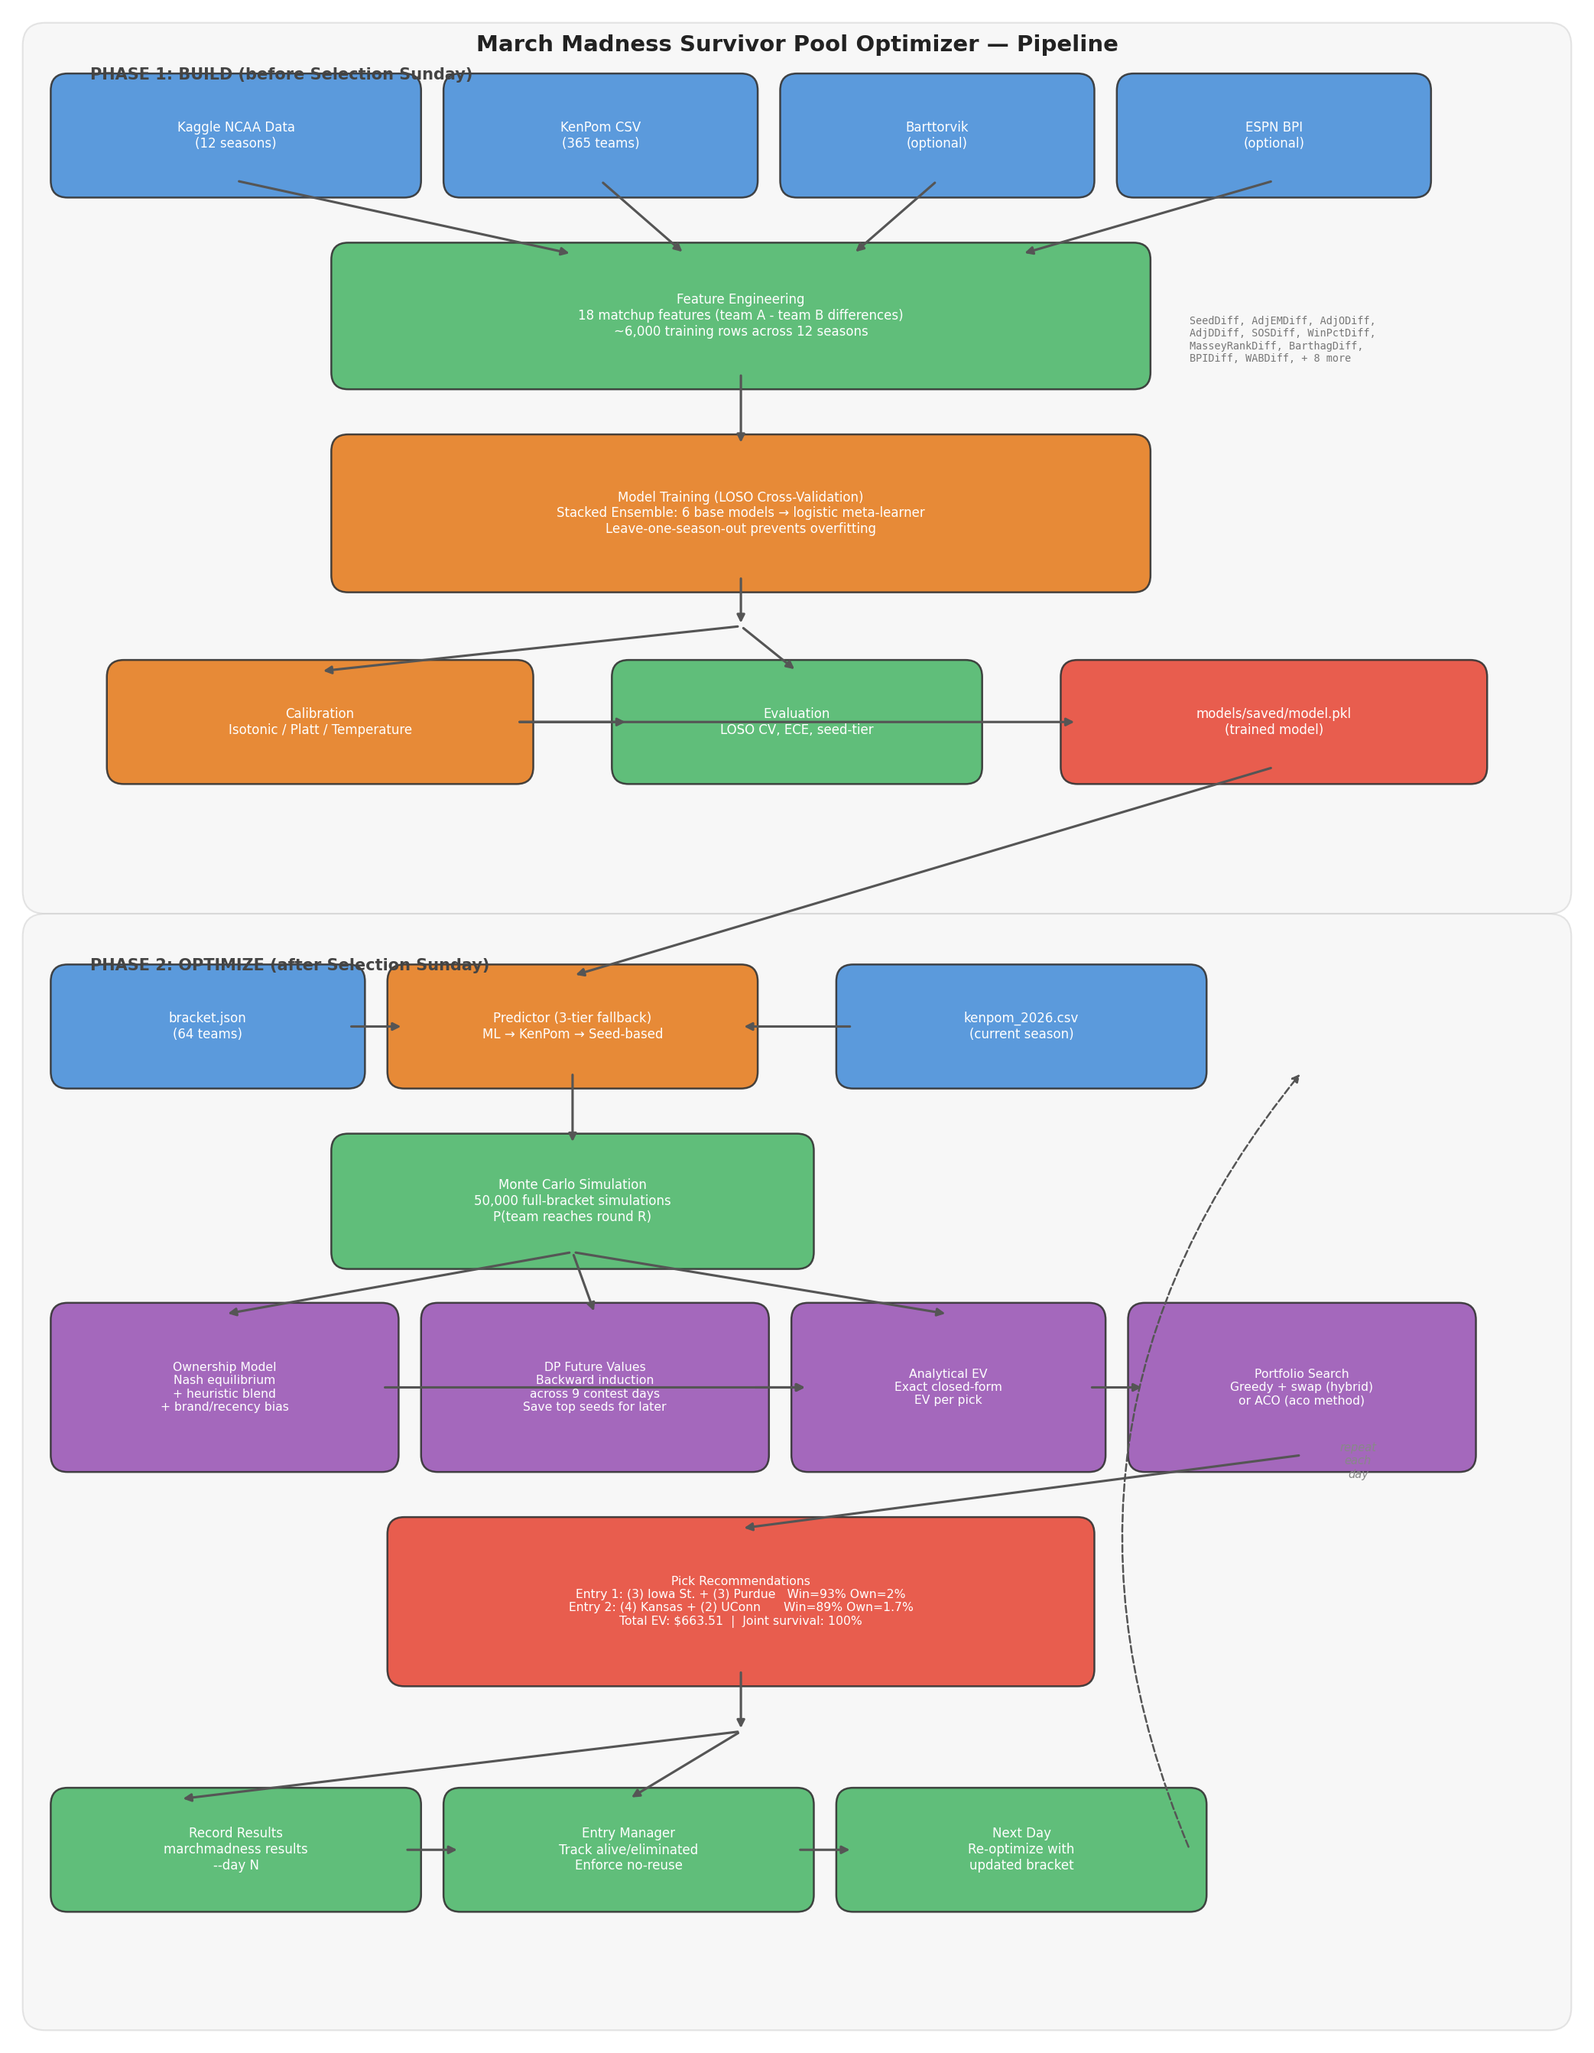
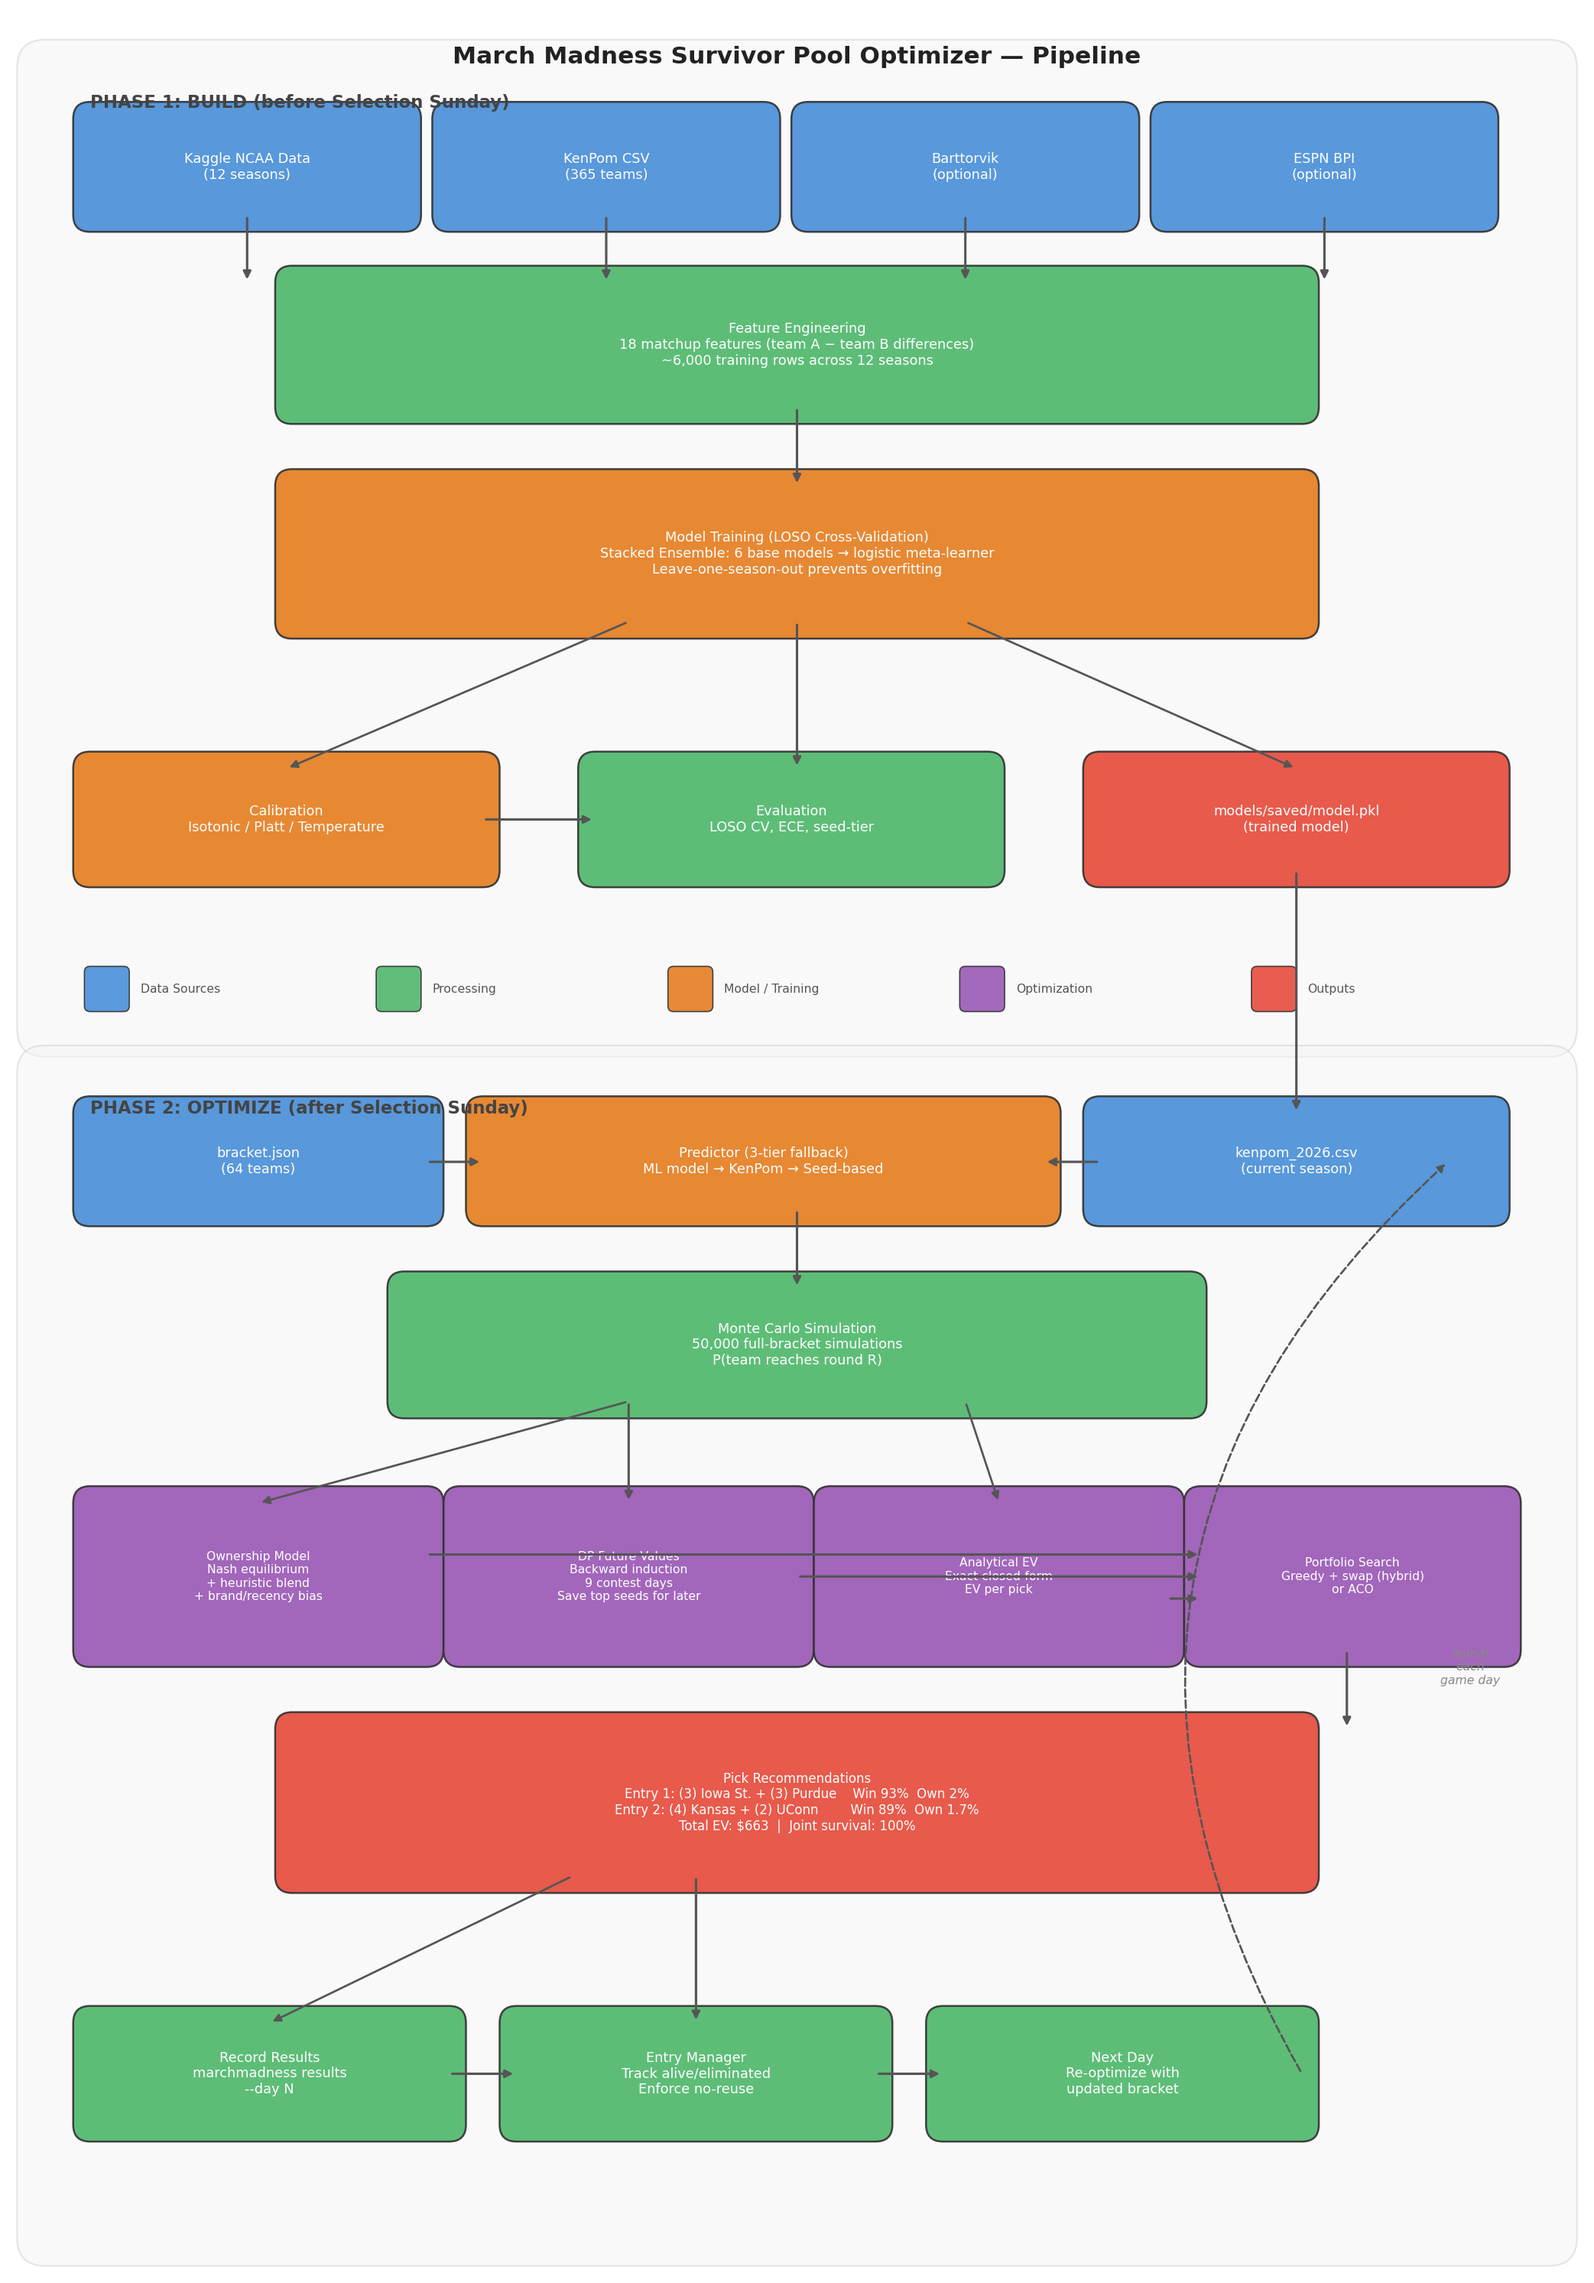
Clean up pipeline diagram: better spacing, aligned arrows, color legend
Rewrote generate_diagram.py with consistent box sizing, vertical arrow
helpers, staggered horizontal flows so arrows don't overlap, and added
a color legend between the two phases.

Changed region(s): [[0.0312, 0.0, 0.9664, 0.9583]]

diff --git a/docs/generate_diagram.py b/docs/generate_diagram.py
@@ -5,9 +5,9 @@ import matplotlib.pyplot as plt
 
 
 def draw_pipeline():
-    fig, ax = plt.subplots(1, 1, figsize=(14, 18))
+    fig, ax = plt.subplots(1, 1, figsize=(14, 20))
     ax.set_xlim(0, 14)
-    ax.set_ylim(0, 18)
+    ax.set_ylim(0, 20)
     ax.axis("off")
     fig.patch.set_facecolor("white")
 
@@ -18,12 +18,12 @@ def draw_pipeline():
     C_OPT = "#9B59B6"        # Purple - optimization
     C_OUTPUT = "#E74C3C"     # Red - outputs
     C_ARROW = "#555555"
-    C_PHASE = "#F0F0F0"
+    C_PHASE = "#F5F5F5"
 
     def box(x, y, w, h, text, color, fontsize=9, bold=False):
         rect = mpatches.FancyBboxPatch(
             (x, y), w, h, boxstyle="round,pad=0.15",
-            facecolor=color, edgecolor="#333333", linewidth=1.2, alpha=0.9,
+            facecolor=color, edgecolor="#333333", linewidth=1.2, alpha=0.92,
         )
         ax.add_patch(rect)
         weight = "bold" if bold else "normal"
@@ -34,129 +34,182 @@ def draw_pipeline():
             fontfamily="sans-serif",
         )
 
-    def arrow(x1, y1, x2, y2, label=""):
+    def arrow_v(x, y1, y2):
+        """Vertical arrow from (x, y1) down to (x, y2)."""
         ax.annotate(
-            "", xy=(x2, y2), xytext=(x1, y1),
+            "", xy=(x, y2), xytext=(x, y1),
             arrowprops=dict(arrowstyle="-|>", color=C_ARROW, lw=1.5),
         )
-        if label:
-            mx, my = (x1 + x2) / 2, (y1 + y2) / 2
-            ax.text(mx + 0.15, my, label, fontsize=7, color="#666666",
-                    fontfamily="sans-serif")
+
+    def arrow_h(y, x1, x2):
+        """Horizontal arrow from (x1, y) to (x2, y)."""
+        ax.annotate(
+            "", xy=(x2, y), xytext=(x1, y),
+            arrowprops=dict(arrowstyle="-|>", color=C_ARROW, lw=1.5),
+        )
+
+    def arrow_diag(x1, y1, x2, y2):
+        """Diagonal arrow."""
+        ax.annotate(
+            "", xy=(x2, y2), xytext=(x1, y1),
+            arrowprops=dict(arrowstyle="-|>", color=C_ARROW, lw=1.3),
+        )
 
     def phase_bg(y, h, label):
         rect = mpatches.FancyBboxPatch(
-            (0.3, y), 13.4, h, boxstyle="round,pad=0.2",
+            (0.3, y), 13.4, h, boxstyle="round,pad=0.25",
             facecolor=C_PHASE, edgecolor="#CCCCCC", linewidth=1, alpha=0.5,
         )
         ax.add_patch(rect)
-        ax.text(0.7, y + h - 0.3, label, fontsize=10, fontweight="bold",
+        ax.text(0.7, y + h - 0.35, label, fontsize=11, fontweight="bold",
                 color="#444444", fontfamily="sans-serif")
 
     # =========================================================================
-    # Phase 1: Build
+    # Phase 1: BUILD
     # =========================================================================
-    phase_bg(10.2, 7.5, "PHASE 1: BUILD (before Selection Sunday)")
+    phase_bg(11.0, 8.5, "PHASE 1: BUILD (before Selection Sunday)")
 
-    # Row 1: Data sources
-    box(0.5, 16.5, 3, 0.8, "Kaggle NCAA Data\n(12 seasons)", C_DATA, 8)
-    box(4, 16.5, 2.5, 0.8, "KenPom CSV\n(365 teams)", C_DATA, 8)
-    box(7, 16.5, 2.5, 0.8, "Barttorvik\n(optional)", C_DATA, 8)
-    box(10, 16.5, 2.5, 0.8, "ESPN BPI\n(optional)", C_DATA, 8)
+    # Row 1: Data sources — evenly spaced
+    dsw, dsh = 2.8, 0.85
+    dsy = 18.2
+    box(0.7, dsy, dsw, dsh, "Kaggle NCAA Data\n(12 seasons)", C_DATA, 8.5)
+    box(3.9, dsy, dsw, dsh, "KenPom CSV\n(365 teams)", C_DATA, 8.5)
+    box(7.1, dsy, dsw, dsh, "Barttorvik\n(optional)", C_DATA, 8.5)
+    box(10.3, dsy, dsw, dsh, "ESPN BPI\n(optional)", C_DATA, 8.5)
 
-    # Row 2: Feature Engineering
-    box(3, 14.8, 7, 1, "Feature Engineering\n18 matchup features (team A - team B differences)\n~6,000 training rows across 12 seasons", C_PROCESS, 8)
+    # Row 2: Feature Engineering — centered
+    fey = 16.5
+    box(2.5, fey, 9, 1.1, "Feature Engineering\n18 matchup features (team A − team B differences)\n~6,000 training rows across 12 seasons", C_PROCESS, 8.5)
 
-    arrow(2, 16.5, 5, 15.85)
-    arrow(5.25, 16.5, 6, 15.85)
-    arrow(8.25, 16.5, 7.5, 15.85)
-    arrow(11.25, 16.5, 9, 15.85)
+    # Arrows: data sources → feature engineering (vertical, centered on each box)
+    for bx in [0.7, 3.9, 7.1, 10.3]:
+        cx = bx + dsw / 2
+        arrow_v(cx, dsy, fey + 1.1)
 
-    # Feature detail annotations
-    ax.text(10.5, 15.3, "SeedDiff, AdjEMDiff, AdjODiff,\nAdjDDiff, SOSDiff, WinPctDiff,\nMasseyRankDiff, BarthagDiff,\nBPIDiff, WABDiff, + 8 more",
-            fontsize=6.5, color="#777777", fontfamily="monospace", va="top")
+    # Row 3: Model Training — centered
+    mty = 14.6
+    box(2.5, mty, 9, 1.2, "Model Training (LOSO Cross-Validation)\nStacked Ensemble: 6 base models → logistic meta-learner\nLeave-one-season-out prevents overfitting", C_MODEL, 8.5)
 
-    # Row 3: Training
-    box(3, 13, 7, 1.1, "Model Training (LOSO Cross-Validation)\nStacked Ensemble: 6 base models → logistic meta-learner\nLeave-one-season-out prevents overfitting", C_MODEL, 8)
+    arrow_v(7, fey, mty + 1.2)
 
-    arrow(6.5, 14.8, 6.5, 14.15)
+    # Row 4: Calibration / Evaluation / Output — three boxes
+    r4y = 12.4
+    box(0.7, r4y, 3.5, 0.9, "Calibration\nIsotonic / Platt / Temperature", C_MODEL, 8.5)
+    box(5.2, r4y, 3.5, 0.9, "Evaluation\nLOSO CV, ECE, seed-tier", C_PROCESS, 8.5)
+    box(9.7, r4y, 3.5, 0.9, "models/saved/model.pkl\n(trained model)", C_OUTPUT, 8.5)
 
-    # Row 4: Calibration + Output
-    box(1, 11.3, 3.5, 0.8, "Calibration\nIsotonic / Platt / Temperature", C_MODEL, 8)
-    box(5.5, 11.3, 3, 0.8, "Evaluation\nLOSO CV, ECE, seed-tier", C_PROCESS, 8)
-    box(9.5, 11.3, 3.5, 0.8, "models/saved/model.pkl\n(trained model)", C_OUTPUT, 8)
+    # Arrows: training → three outputs
+    arrow_diag(5.5, mty, 2.45, r4y + 0.9)
+    arrow_v(7, mty, r4y + 0.9)
+    arrow_diag(8.5, mty, 11.45, r4y + 0.9)
 
-    arrow(6.5, 13, 6.5, 12.55)
-    arrow(4.5, 11.7, 5.5, 11.7)
-    arrow(6.5, 12.55, 2.75, 12.15)
-    arrow(6.5, 12.55, 7, 12.15)
-    arrow(4.5, 11.7, 9.5, 11.7)
+    # Calibration → Evaluation
+    arrow_h(r4y + 0.45, 4.2, 5.2)
 
     # =========================================================================
-    # Phase 2: Optimize
+    # Phase 2: OPTIMIZE
     # =========================================================================
-    phase_bg(0.3, 9.5, "PHASE 2: OPTIMIZE (after Selection Sunday)")
+    phase_bg(0.3, 10.3, "PHASE 2: OPTIMIZE (after Selection Sunday)")
 
-    # Row 5: Bracket + Predictor
-    box(0.5, 8.6, 2.5, 0.8, "bracket.json\n(64 teams)", C_DATA, 8)
-    box(3.5, 8.6, 3, 0.8, "Predictor (3-tier fallback)\nML → KenPom → Seed-based", C_MODEL, 8)
-    box(7.5, 8.6, 3, 0.8, "kenpom_2026.csv\n(current season)", C_DATA, 8)
+    # Row 5: Bracket + Predictor + KenPom
+    r5y = 9.4
+    box(0.7, r5y, 3, 0.85, "bracket.json\n(64 teams)", C_DATA, 8.5)
+    box(4.2, r5y, 5, 0.85, "Predictor (3-tier fallback)\nML model → KenPom → Seed-based", C_MODEL, 8.5)
+    box(9.7, r5y, 3.5, 0.85, "kenpom_2026.csv\n(current season)", C_DATA, 8.5)
 
-    arrow(3, 9, 3.5, 9)
-    arrow(7.5, 9, 6.5, 9)
-    # model.pkl feeds predictor
-    arrow(11.25, 11.3, 5, 9.45)
+    # Arrows into predictor
+    arrow_h(r5y + 0.42, 3.7, 4.2)   # bracket → predictor
+    arrow_h(r5y + 0.42, 9.7, 9.2)   # kenpom → predictor (right to left)
 
-    # Row 6: MC Simulation
-    box(3, 7, 4, 0.9, "Monte Carlo Simulation\n50,000 full-bracket simulations\nP(team reaches round R)", C_PROCESS, 8)
+    # model.pkl → predictor (vertical down, slight angle)
+    arrow_v(11.45, r4y, r5y + 0.85)
 
-    arrow(5, 8.6, 5, 7.95)
+    # Row 6: Monte Carlo Simulation
+    r6y = 7.7
+    box(3.5, r6y, 7, 1, "Monte Carlo Simulation\n50,000 full-bracket simulations\nP(team reaches round R)", C_PROCESS, 8.5)
 
-    # Row 7: Optimization components (side by side)
-    box(0.5, 5.2, 2.8, 1.2, "Ownership Model\nNash equilibrium\n+ heuristic blend\n+ brand/recency bias", C_OPT, 7.5)
-    box(3.8, 5.2, 2.8, 1.2, "DP Future Values\nBackward induction\nacross 9 contest days\nSave top seeds for later", C_OPT, 7.5)
-    box(7.1, 5.2, 2.5, 1.2, "Analytical EV\nExact closed-form\nEV per pick", C_OPT, 7.5)
-    box(10.1, 5.2, 2.8, 1.2, "Portfolio Search\nGreedy + swap (hybrid)\nor ACO (aco method)", C_OPT, 7.5)
+    arrow_v(7, r5y, r6y + 1)
 
-    arrow(5, 7, 1.9, 6.45)
-    arrow(5, 7, 5.2, 6.45)
-    arrow(5, 7, 8.35, 6.45)
+    # Row 7: Optimization components — 4 purple boxes with equal width
+    r7y = 5.5
+    ow = 3.0
+    oh = 1.3
+    box(0.7, r7y, ow, oh, "Ownership Model\nNash equilibrium\n+ heuristic blend\n+ brand/recency bias", C_OPT, 7.5)
+    box(4.0, r7y, ow, oh, "DP Future Values\nBackward induction\n9 contest days\nSave top seeds for later", C_OPT, 7.5)
+    box(7.3, r7y, ow, oh, "Analytical EV\nExact closed-form\nEV per pick", C_OPT, 7.5)
+    box(10.6, r7y, 2.7, oh, "Portfolio Search\nGreedy + swap (hybrid)\nor ACO", C_OPT, 7.5)
 
-    # Connect ownership → portfolio
-    arrow(3.3, 5.8, 7.1, 5.8)
-    # Connect DP → portfolio
-    arrow(6.6, 5.8, 7.1, 5.8)
-    # Connect analytical → portfolio
-    arrow(9.6, 5.8, 10.1, 5.8)
+    # MC Simulation → Ownership, DP, Analytical (fan out vertically)
+    arrow_diag(5.5, r6y, 2.2, r7y + oh)
+    arrow_v(5.5, r6y, r7y + oh)
+    arrow_diag(8.5, r6y, 8.8, r7y + oh)
 
-    # Row 8: Output
-    box(3.5, 3.3, 6, 1.2, "Pick Recommendations\nEntry 1: (3) Iowa St. + (3) Purdue   Win=93% Own=2%\nEntry 2: (4) Kansas + (2) UConn      Win=89% Own=1.7%\nTotal EV: $663.51  |  Joint survival: 100%", C_OUTPUT, 7.5)
+    # Horizontal flow: Ownership → Portfolio, DP → Portfolio, Analytical → Portfolio
+    # Stagger vertically so arrows don't overlap
+    arrow_h(r7y + oh * 0.65, 3.7, 10.6)   # ownership → portfolio (upper)
+    arrow_h(r7y + oh * 0.5, 7.0, 10.6)    # DP → portfolio (middle)
+    arrow_h(r7y + oh * 0.35, 10.3, 10.6)  # analytical → portfolio (lower)
 
-    arrow(11.5, 5.2, 6.5, 4.55)
+    # Row 8: Pick Recommendations
+    r8y = 3.5
+    box(2.5, r8y, 9, 1.3, "Pick Recommendations\nEntry 1: (3) Iowa St. + (3) Purdue    Win 93%  Own 2%\nEntry 2: (4) Kansas + (2) UConn        Win 89%  Own 1.7%\nTotal EV: $663  |  Joint survival: 100%", C_OUTPUT, 8)
 
-    # Row 9: Tournament tracking
-    box(0.5, 1.3, 3, 0.8, "Record Results\nmarchmadness results\n--day N", C_PROCESS, 8)
-    box(4, 1.3, 3, 0.8, "Entry Manager\nTrack alive/eliminated\nEnforce no-reuse", C_PROCESS, 8)
-    box(7.5, 1.3, 3, 0.8, "Next Day\nRe-optimize with\nupdated bracket", C_PROCESS, 8)
+    arrow_v(11.9, r7y, r8y + 1.3)
 
-    arrow(6.5, 3.3, 6.5, 2.75)
-    arrow(6.5, 2.75, 1.5, 2.15)
-    arrow(6.5, 2.75, 5.5, 2.15)
-    arrow(3.5, 1.7, 4, 1.7)
-    arrow(7, 1.7, 7.5, 1.7)
-    # Loop back
+    # Row 9: Tournament tracking — three boxes
+    r9y = 1.3
+    box(0.7, r9y, 3.2, 0.9, "Record Results\nmarchmadness results\n--day N", C_PROCESS, 8.5)
+    box(4.5, r9y, 3.2, 0.9, "Entry Manager\nTrack alive/eliminated\nEnforce no-reuse", C_PROCESS, 8.5)
+    box(8.3, r9y, 3.2, 0.9, "Next Day\nRe-optimize with\nupdated bracket", C_PROCESS, 8.5)
+
+    # Recommendations → tracking row
+    arrow_diag(5, r8y, 2.3, r9y + 0.9)
+    arrow_v(6.1, r8y, r9y + 0.9)
+
+    # Horizontal flow: Record → Entry Manager → Next Day
+    arrow_h(r9y + 0.45, 3.9, 4.5)
+    arrow_h(r9y + 0.45, 7.7, 8.3)
+
+    # Loop-back: Next Day → back to Predictor row (dashed arc on right side)
     ax.annotate(
-        "", xy=(11.5, 8.6), xytext=(10.5, 1.7),
-        arrowprops=dict(arrowstyle="-|>", color=C_ARROW, lw=1.2,
-                        connectionstyle="arc3,rad=-0.3", linestyle="dashed"),
+        "", xy=(12.8, r5y + 0.42), xytext=(11.5, r9y + 0.45),
+        arrowprops=dict(
+            arrowstyle="-|>", color=C_ARROW, lw=1.3,
+            connectionstyle="arc3,rad=-0.4", linestyle="dashed",
+        ),
     )
-    ax.text(12, 5.0, "repeat\neach\nday", fontsize=7, color="#888888",
-            fontfamily="sans-serif", ha="center", style="italic")
+    ax.text(13.0, 5.2, "repeat\neach\ngame day",
+            fontsize=7.5, color="#888888", fontfamily="sans-serif",
+            ha="center", style="italic")
 
+    # =========================================================================
     # Title
-    ax.text(7, 17.7, "March Madness Survivor Pool Optimizer — Pipeline",
-            ha="center", va="center", fontsize=14, fontweight="bold",
+    # =========================================================================
+    ax.text(7, 19.6, "March Madness Survivor Pool Optimizer — Pipeline",
+            ha="center", va="center", fontsize=15, fontweight="bold",
             color="#222222", fontfamily="sans-serif")
+
+    # =========================================================================
+    # Legend
+    # =========================================================================
+    legend_y = 11.2
+    legend_items = [
+        (C_DATA, "Data Sources"),
+        (C_PROCESS, "Processing"),
+        (C_MODEL, "Model / Training"),
+        (C_OPT, "Optimization"),
+        (C_OUTPUT, "Outputs"),
+    ]
+    for i, (color, label) in enumerate(legend_items):
+        lx = 0.7 + i * 2.6
+        rect = mpatches.FancyBboxPatch(
+            (lx, legend_y), 0.3, 0.3, boxstyle="round,pad=0.05",
+            facecolor=color, edgecolor="#333333", linewidth=0.8, alpha=0.9,
+        )
+        ax.add_patch(rect)
+        ax.text(lx + 0.45, legend_y + 0.15, label,
+                fontsize=7.5, color="#555555", va="center",
+                fontfamily="sans-serif")
 
     plt.tight_layout()
     plt.savefig("docs/pipeline.png", dpi=150, bbox_inches="tight",
